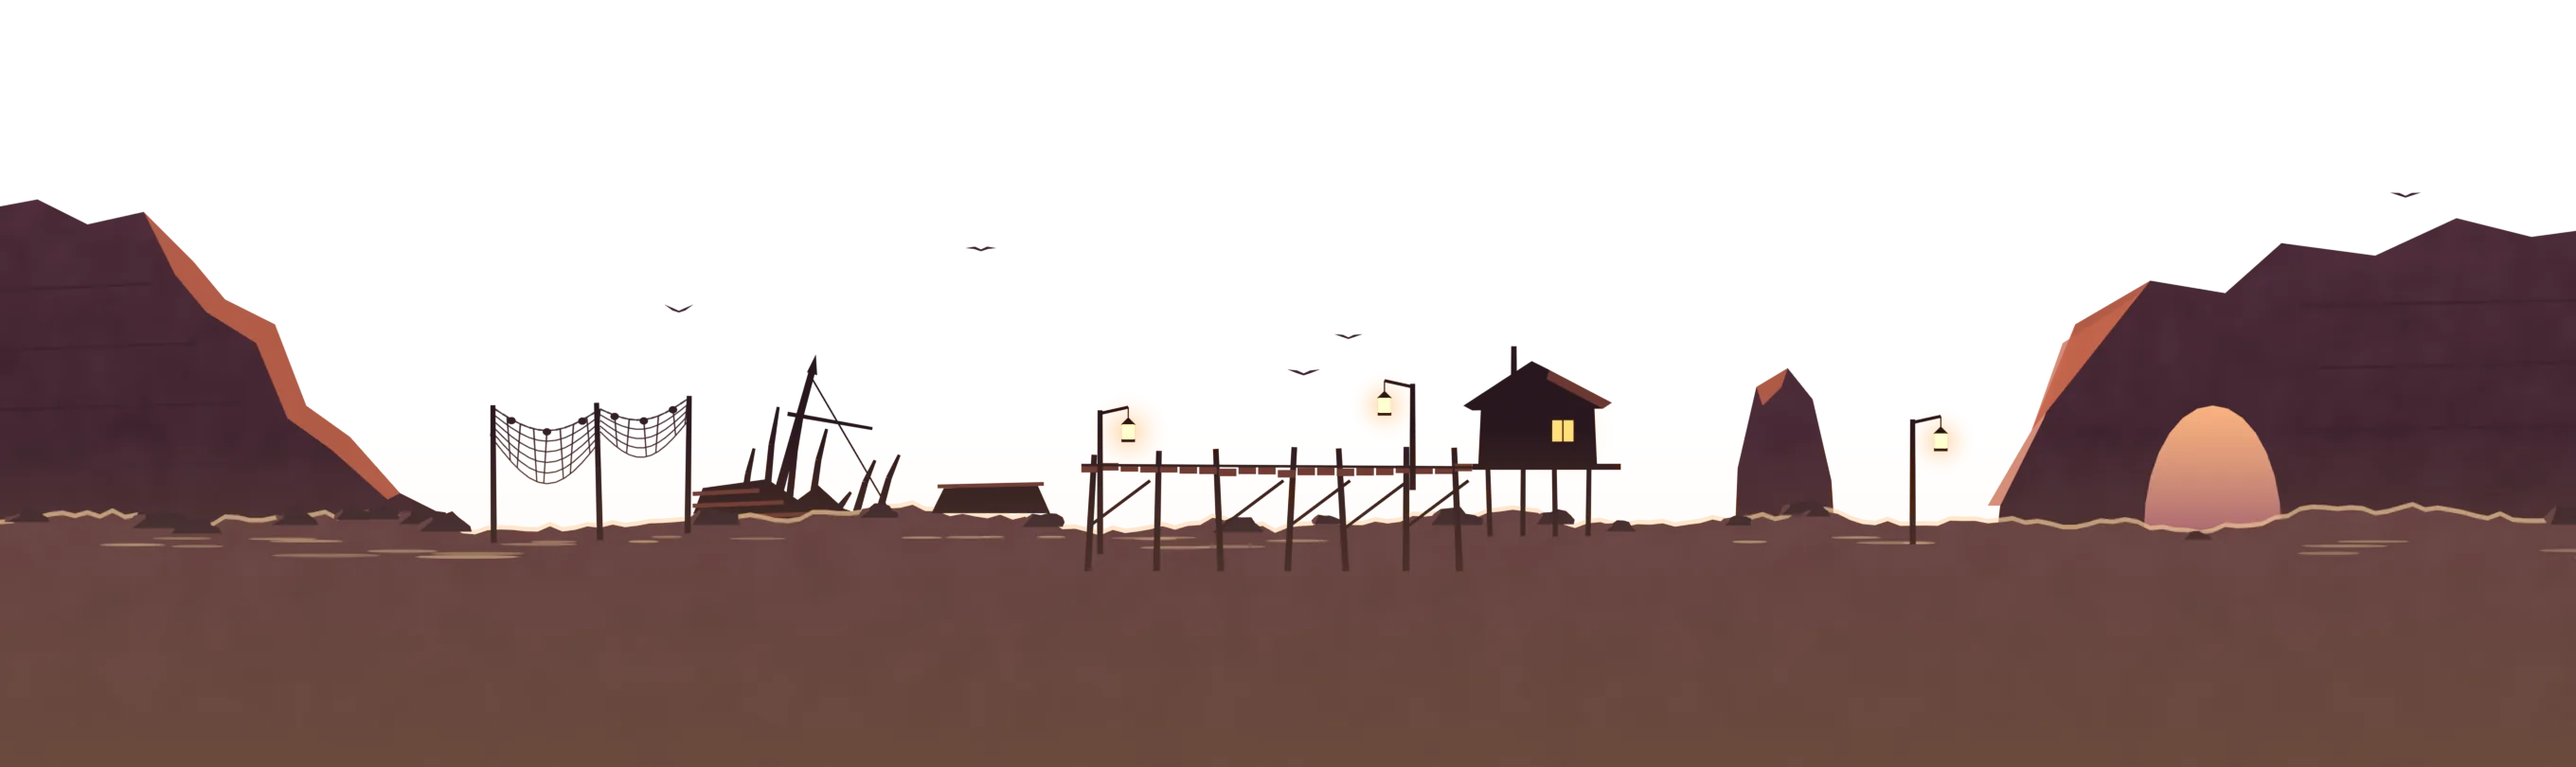
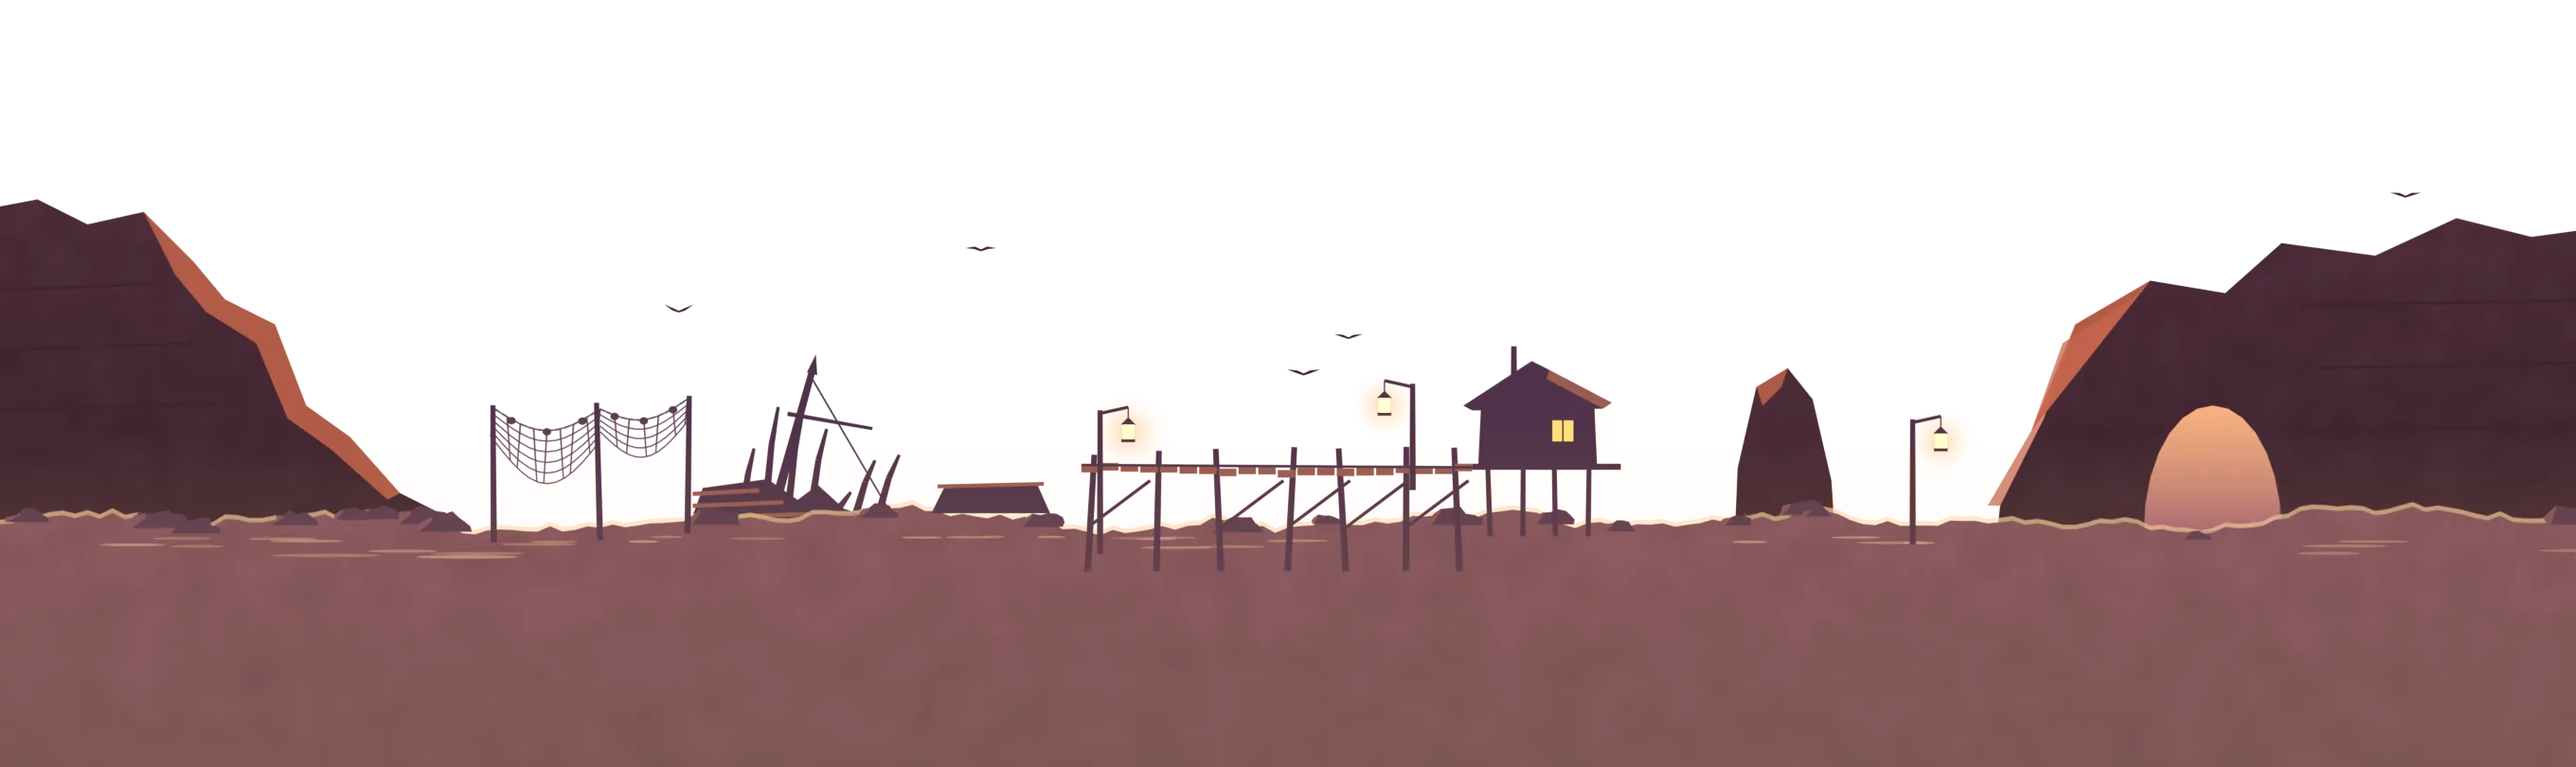
Slice scenery: sunset-lit forts, eyeless grotto, wet beach, hazier mid layer

diff --git a/art/blender/bg/r1_lib.py b/art/blender/bg/r1_lib.py
@@ -15,12 +15,12 @@ DAY = dict(
     ship=(0.34, 0.2, 0.3), ship_sail=(0.5, 0.3, 0.38), beam=(1.0, 0.85, 0.55), lamp=(1.0, 0.9, 0.62),
     fog=(1.0, 0.72, 0.5), fog_a=0.35,
     cliff=((0.18, 0.11, 0.16), (0.3, 0.17, 0.22)), cliff_lit=(0.78, 0.4, 0.3), strata=(0.24, 0.14, 0.19),
-    shore=((0.2, 0.13, 0.17), (0.38, 0.24, 0.26)), foam=(1.0, 0.82, 0.62),
-    wood=(0.16, 0.09, 0.12), wood_lit=(0.42, 0.22, 0.2), netc=(0.2, 0.12, 0.15),
+    shore=((0.36, 0.23, 0.31), (0.52, 0.33, 0.36)), foam=(1.0, 0.82, 0.62),
+    wood=(0.31, 0.2, 0.29), wood_lit=(0.6, 0.36, 0.32), netc=(0.36, 0.24, 0.31),
     lantern=(1.0, 0.68, 0.32), lcore=(1.0, 0.9, 0.6), win=(1.0, 0.72, 0.38),
-    nsil=(0.13, 0.08, 0.1), nsil_lit=(0.36, 0.2, 0.18), ribs=(0.5, 0.36, 0.33), ribs_lit=(0.78, 0.6, 0.48),
-    sand=((0.07, 0.05, 0.06), (0.2, 0.14, 0.13), (0.43, 0.29, 0.24), (0.62, 0.44, 0.33)), lip=(0.82, 0.6, 0.43),
-    wet=(0.33, 0.22, 0.21), pebble=(0.15, 0.1, 0.1), shell=(0.62, 0.48, 0.4), rock=(0.2, 0.14, 0.16), rock_lit=(0.46, 0.3, 0.27),
+    nsil=(0.30, 0.19, 0.26), nsil_lit=(0.55, 0.33, 0.3), ribs=(0.5, 0.36, 0.33), ribs_lit=(0.78, 0.6, 0.48),
+    sand=((0.25, 0.16, 0.21), (0.40, 0.27, 0.29), (0.60, 0.42, 0.37), (0.80, 0.60, 0.46)), lip=(0.98, 0.84, 0.68),
+    wet=(0.42, 0.28, 0.36), pebble=(0.33, 0.22, 0.24), shell=(0.62, 0.48, 0.4), rock=(0.33, 0.22, 0.27), rock_lit=(0.62, 0.4, 0.34),
     weed=(0.2, 0.22, 0.14), bone=(0.84, 0.72, 0.58), bone_lit=(1.0, 0.86, 0.66), wisp=None,
     crate=(0.42, 0.26, 0.17), crate_lit=(0.6, 0.38, 0.24), crate_d=(0.24, 0.14, 0.1), rope=(0.55, 0.42, 0.28), rope_l=(0.7, 0.55, 0.36),
 )
@@ -37,7 +37,7 @@ NIGHT = dict(
     wood=(0.02, 0.04, 0.05), wood_lit=(0.1, 0.2, 0.17), netc=(0.04, 0.08, 0.08),
     lantern=(1.0, 0.62, 0.28), lcore=(1.0, 0.85, 0.55), win=(1.0, 0.66, 0.3),
     nsil=(0.02, 0.04, 0.05), nsil_lit=(0.12, 0.25, 0.2), ribs=(0.16, 0.24, 0.22), ribs_lit=(0.36, 0.52, 0.42),
-    sand=((0.02, 0.03, 0.04), (0.06, 0.09, 0.1), (0.14, 0.2, 0.19), (0.24, 0.33, 0.29)), lip=(0.36, 0.52, 0.42),
+    sand=((0.05, 0.08, 0.09), (0.09, 0.14, 0.15), (0.17, 0.25, 0.24), (0.27, 0.38, 0.33)), lip=(0.36, 0.52, 0.42),
     wet=(0.1, 0.17, 0.17), pebble=(0.04, 0.06, 0.07), shell=(0.3, 0.4, 0.36), rock=(0.05, 0.09, 0.1), rock_lit=(0.18, 0.34, 0.28),
     weed=(0.08, 0.15, 0.11), bone=(0.5, 0.6, 0.52), bone_lit=(0.7, 0.9, 0.7), wisp=(0.45, 1.0, 0.6),
     crate=(0.11, 0.13, 0.12), crate_lit=(0.2, 0.28, 0.24), crate_d=(0.05, 0.07, 0.07), rope=(0.2, 0.25, 0.21), rope_l=(0.3, 0.38, 0.3),
@@ -219,13 +219,23 @@ def build_near(P, night, W=None):
     band(top, BG_BOT - 0.3, Y, s1, stops=[(0.0, s0), (0.45, s1), (0.72, s2), (1.0, s3)], noise=0.08, nscale=0.8)
     lip = top + [(x, z - 0.1 - 0.03 * math.sin(x * 3.1)) for x, z in reversed(top)]
     poly(lip, Y - 0.5, P["lip"])
-    # wet-sand streaks, shingle, shells
-    for i in range(45):
-        x = r.uniform(0, W); z = r.uniform(-1.3, 0.05)
-        ellipse(x, z, r.uniform(0.5, 1.6), r.uniform(0.04, 0.09), Y - 0.6, P["wet"], n=14, wob=0.3, seed=i, alpha=0.35)
-    for i in range(110):
-        x = r.uniform(0, W); z = r.uniform(-1.0, 0.15) if i % 5 else r.uniform(BG_BOT + 0.1, -1.0); s = r.uniform(0.04, 0.12)
-        ellipse(x, z, s * 1.4, s, Y - 0.7, P["pebble"], n=8, wob=0.3, seed=i)
+    # the tide: a shallow wash behind the walking line, a foam edge, and wet sand that mirrors the sky under the fight
+    wash = [(x, z + 0.16 + 0.05 * math.sin(x * 1.7)) for x, z in top]
+    band(wash, 0.0, Y + 0.4, P["sea"][2][1], top=P["sea"][3][1], alpha=0.85)
+    for i in range(70):
+        x = r.uniform(0, W); ellipse(x, gz(x) + 0.14 + r.uniform(-0.03, 0.05), r.uniform(0.25, 0.9), r.uniform(0.018, 0.035), Y + 0.3, P["foam"], n=12, wob=0.3, seed=i, alpha=0.8)
+    for i in range(60):
+        x = r.uniform(0, W); z = r.uniform(-0.75, 0.12)
+        ellipse(x, z, r.uniform(0.9, 2.6), r.uniform(0.05, 0.13), Y - 0.6, P["wet"], n=16, wob=0.25, seed=i, alpha=0.5)
+    for i in range(46):
+        x = r.uniform(0, W); z = r.uniform(-0.6, 0.1)
+        ellipse(x, z, r.uniform(0.3, 1.1), r.uniform(0.012, 0.03), Y - 0.62, P["glint"], n=12, wob=0.2, seed=i, alpha=0.42, glow=0.4)
+    for i in range(46):
+        x = r.uniform(0, W); z = r.uniform(-1.6, 0.1) if i % 3 else r.uniform(BG_BOT + 0.1, -1.4); s = r.uniform(0.04, 0.1)
+        ellipse(x, z, s * 1.5, s * 0.8, Y - 0.7, P["pebble"], n=8, wob=0.3, seed=i, alpha=0.8)
+    for i in range(9):          # footprints leading down from the fort
+        x = 3.0 + i * 0.62; z = -0.22 - 0.05 * (i % 2)
+        ellipse(x, z, 0.11, 0.035, Y - 0.72, P["pebble"], n=8, alpha=0.55)
     for i in range(14):
         x = r.uniform(1, W - 1); z = r.uniform(-1.0, 0.0); s = r.uniform(0.07, 0.12)
         poly([(x, z)] + [(x + math.cos(a) * s * 1.3, z + math.sin(a) * s * 1.2) for a in [math.pi * (0.1 + 0.8 * k / 6) for k in range(7)]],

diff --git a/art/blender/scenery.py b/art/blender/scenery.py
@@ -1228,9 +1228,9 @@ def grotto(ox, state=0):
             spike((X(fx), -1.32, 0.92), (0.25 if i == 0 else 0.05, 0, 1), l, 0.13, BONE, seg=7)
         # eye sockets with green glow (big fish-skull orbit on the left, a smaller one right)
         for (ex, ez, er, g) in ((-1.25, 4.15, 0.55, 1.8), (0.95, 4.45, 0.42, 1.5)):
-            cyl(er + 0.14, 0.12, BONE_D, (X(ex), -1.25, ez), rot=(math.radians(90), 0, 0), seg=18, name="orbit")
-            cyl(er, 0.12, (0.04, 0.07, 0.07), (X(ex), -1.3, ez), rot=(math.radians(90), 0, 0), seg=18, name="socket", outline=0.0)
-            ball(er * 0.42, SICK, (X(ex - 0.05), -1.32, ez - 0.05), scale=(1, 0.5, 1), glow=g if state == 0 else g * 0.7, name="eye")
+            # empty hollows, no eyes: a dead thing's skull, not a face (docs/design/art-direction.md)
+            ball(er * 1.05, (0.03, 0.06, 0.07), (X(ex), -1.1, ez), scale=(1.15, 0.5, 0.85), name="socket", outline=0.0)
+            kelp(X(ex - er * 0.4), -1.3, ez - er * 0.2, 0.7, seed=int(ex * 7)); kelp(X(ex + er * 0.3), -1.3, ez - er * 0.35, 0.5, seed=int(ex * 9))
         # dorsal fin rays sweeping back (right) with ragged webbing
         rays = [(-0.6, 5.1, 1.3, 0.5), (0.2, 5.45, 1.7, 0.65), (1.0, 5.45, 1.5, 0.8), (1.8, 5.1, 1.2, 0.95), (2.5, 4.5, 0.9, 1.1)]
         tips = []

diff --git a/art/blender/bg/castles.py b/art/blender/bg/castles.py
@@ -4,6 +4,21 @@ from scenery import *
 # frames: 1-3 keep_0..2 (The Gullwake), 4-6 maw_0..2 (The Drowned Grotto), 7 ballista (Long Tom barrel).  Layout constants are mirrored in tools/pack_scenery.py.
 reset()
 S = bpy.context.scene
+
+
+class _SceneFig:      # forts are painted with the figures' sunset lighting (kit2.paint) instead of the old toon bands
+    def __init__(self):
+        self.mats = {}; self.h = 9.0; self.ink = INK_CREW
+        self.root = bpy.data.objects.new("scene_root", None); S.collection.objects.link(self.root)
+
+
+_SF = _SceneFig()
+
+
+def toon(color, name=None, glow=0.0, rim=0.25):
+    return paint(_SF, color, glow=min(glow, 2.0))
+
+
 S.eevee.taa_render_samples = 32
 CELL, PPU_R = 864, 96
 S.render.resolution_x = S.render.resolution_y = CELL

diff --git a/docs/scenery-notes.md b/docs/scenery-notes.md
@@ -57,7 +57,7 @@ pack_scenery.py writes every file atomically (temp file + os.replace; atlas imag
 <!-- sizes -->
 | file | size |
 |---|---|
-| castles.webp | 195.2 KB |
+| castles.webp | 210.9 KB |
 | castles.json | 0.7 KB |
 | fx.webp | 199.1 KB |
 | fx.json | 1.2 KB |
@@ -65,13 +65,13 @@ pack_scenery.py writes every file atomically (temp file + os.replace; atlas imag
 | worldmap.webp | 76.5 KB |
 | worldmap.json | 0.3 KB |
 | bg/r1_far.webp | 33.7 KB |
-| bg/r1_mid.webp | 71.9 KB |
-| bg/r1_near.webp | 51.4 KB |
+| bg/r1_mid.webp | 72.0 KB |
+| bg/r1_near.webp | 65.8 KB |
 | bg/r1_sky.webp | 21.0 KB |
 | bg/r1n_far.webp | 31.5 KB |
 | bg/r1n_mid.webp | 71.4 KB |
-| bg/r1n_near.webp | 51.7 KB |
+| bg/r1n_near.webp | 63.3 KB |
 | bg/r1n_sky.webp | 20.9 KB |
 | bg/manifest.json | 0.4 KB |
-| **total** | **941.3 KB** |
+| **total** | **983.0 KB** |
 <!-- /sizes -->
